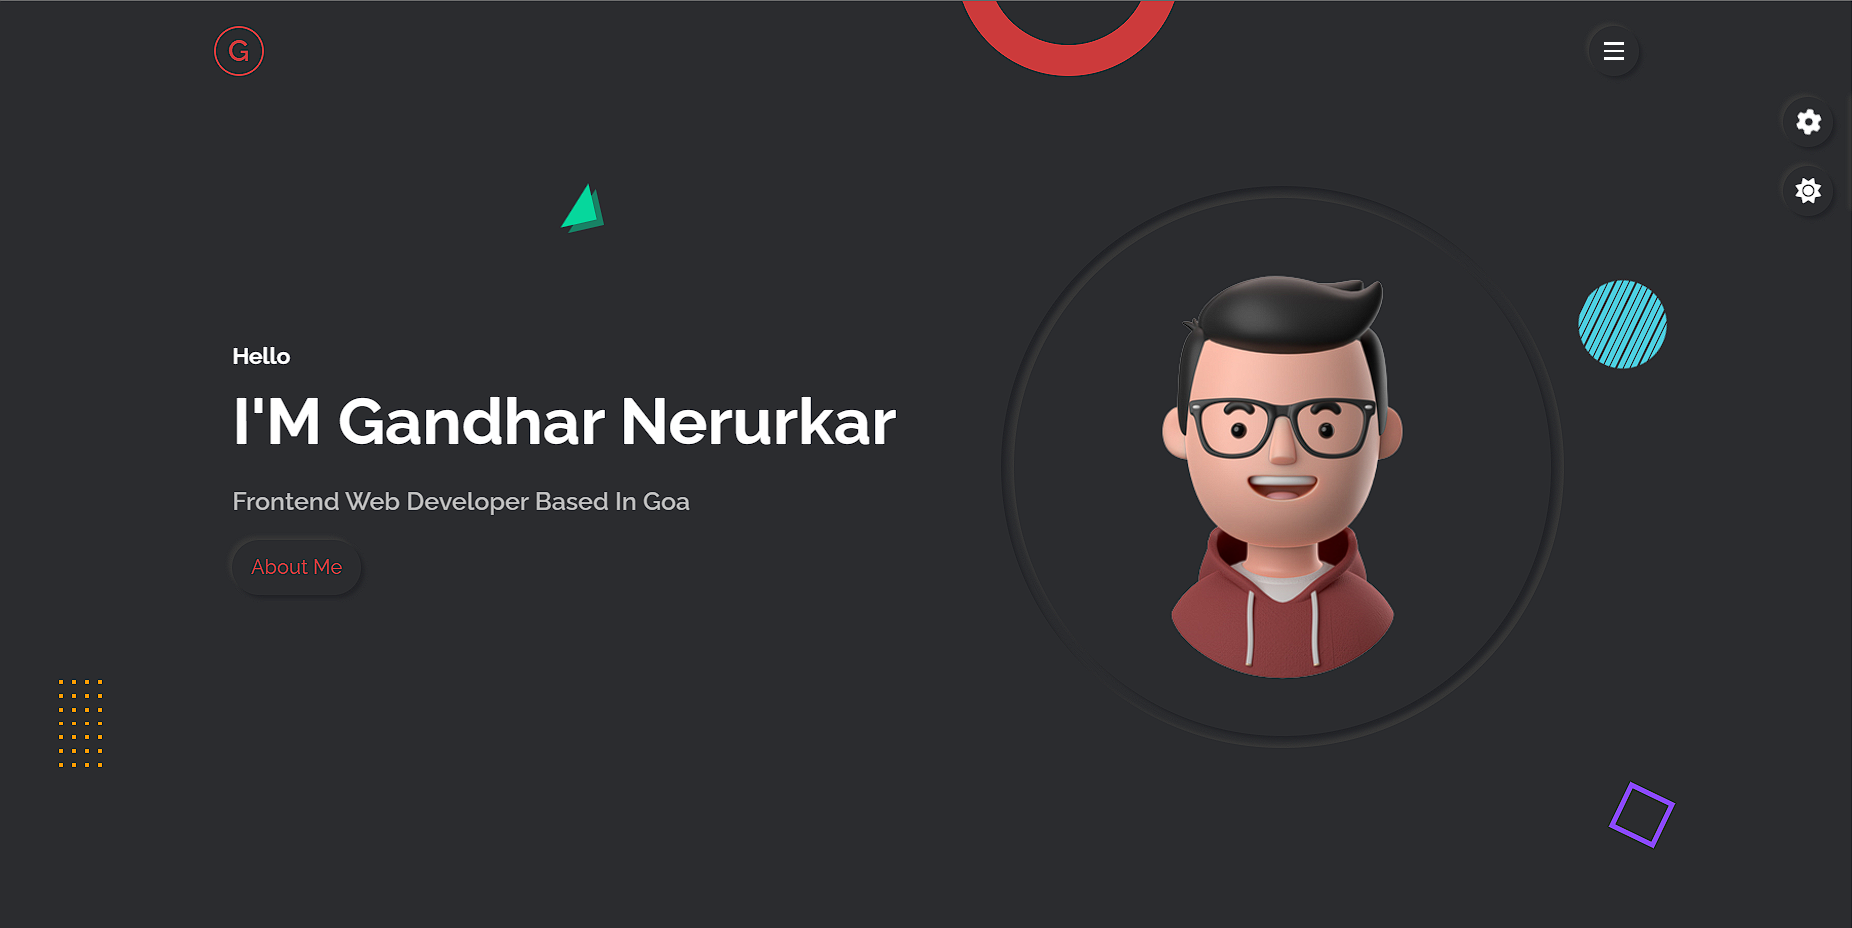
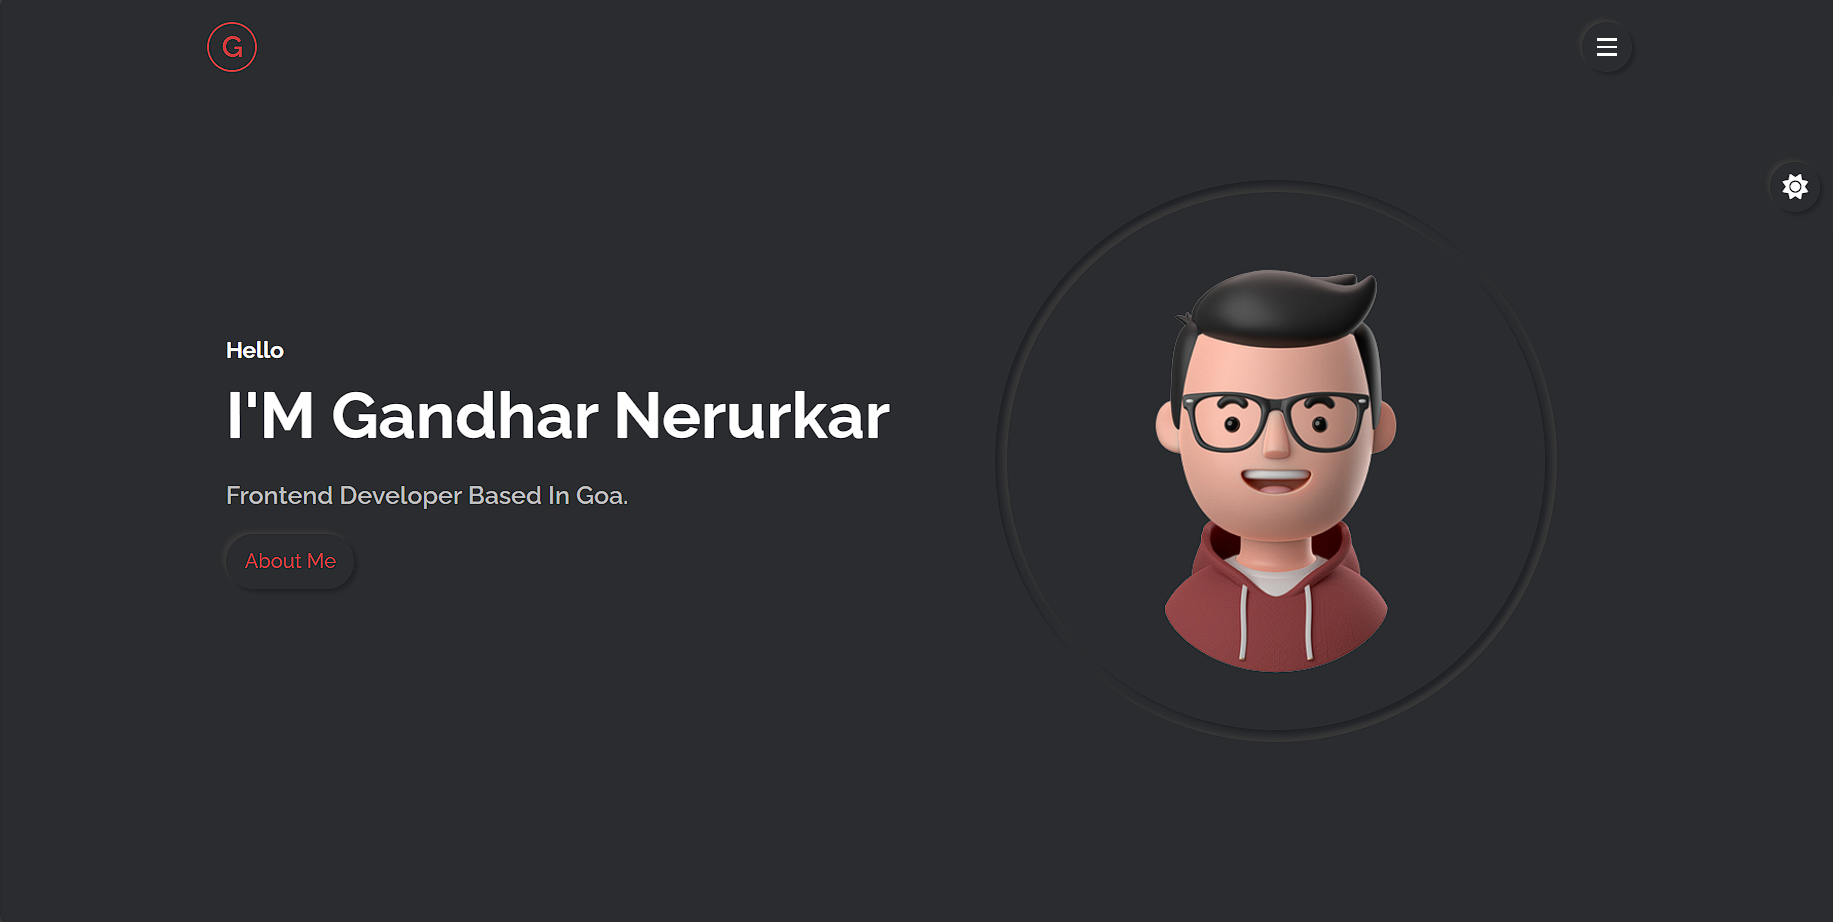
Updated Portfolio and Index
Latest Portfolio

diff --git a/index.html b/index.html
@@ -246,11 +246,11 @@
             <a href="#" class="btn-1 outer-shadow hover-in-shadow"
               >Download CV</a
             >
-            <a
+            <!-- <a
               href="#contact"
               class="link-item btn-1 outer-shadow hover-in-shadow"
               >Hire Me</a
-            >
+            > -->
           </div>
         </div>
         <!-- About  tabs starts -->
@@ -297,7 +297,7 @@
               </div>
               <!-- skill item start -->
               <div class="skill-item">
-                <p>React.Js</p>
+                <p>React.Js</p></br>
                 <div class="progress inner-shadow">
                   <div class="progress-bar" style="width: calc(20% - 14px)">
                     <span>20%</span>
@@ -500,7 +500,7 @@
       <div class="container">
         <div class="row">
           <div class="section-title">
-            <h2 data-heading="Services">What i Like to do</h2>
+            <h2 data-heading="Skills">What i Like to do</h2>
           </div>
         </div>
         <div class="row">
@@ -629,9 +629,7 @@
               <div class="portfolio-item-img">
                 <img
                   src="deptweb.jpg"
-                  alt="portfolio"
-                  data-screenshots="2.png,
-                            3.png, 4.png, 5.png, 6.png"
+
                 />
                 <!-- view project button -->
                 <!-- <span class="view-project">View project</span> -->
@@ -640,8 +638,8 @@
                 We created a modern, user-friendly department website using HTML, CSS, and JavaScript, with a responsive design and interactive elements.
               </p><br>
               <!-- <a href="#" class="btn-1 outer-shadow hover-in-shadow"
-              >Live Demo</a -->
-            >
+              >Live Demo</a> -->
+            
               <!-- Portfolio item detail start -->
               <!-- <div class="portfolio-item-details">
                 <div class="row">
@@ -680,8 +678,7 @@
                 <img
                   src="e-commerce.png"
                   alt="portfolio"
-                  data-screenshots="2.png,
-                            3.png, 4.png"
+                  data-screenshots=""
                 />
                 <!-- view project button -->
                 <!-- <span class="view-project" style="text-align: center; ">View project</span> -->
@@ -690,8 +687,8 @@
                 Designed and developed an e-commerce website as a mini project with a user-friendly interface and detailed product descriptions.
               </p><br><br>
               <!-- <a href="#" class="btn-1 outer-shadow hover-in-shadow "
-              >Live Demo</a -->
-            >
+              >Live Demo</a> -->
+            
               <!-- Portfolio item detail start -->
               <!-- <div class="portfolio-item-details">
                 <div class="row">
@@ -724,8 +721,7 @@
                 <img
                   src="CarRental.png"
                   alt="portfolio"
-                  data-screenshots="2.png,
-                            3.png, 4.png"
+                  data-screenshots=""
                             style="height: 180px;"
                 />
                 <!-- view project button -->
@@ -735,8 +731,8 @@
                 I designed and developed a mobile app rental system using Android Studio, providing a seamless and convenient rental experience for users.
               </p><br>
               <!-- <a href="#" class="btn-1 outer-shadow hover-in-shadow"
-              >Live Demo</a -->
-            >
+              >Live Demo</a> -->
+            
               <!-- Portfolio item detail start -->
               <!-- <div class="portfolio-item-details">
                 <div class="row">
